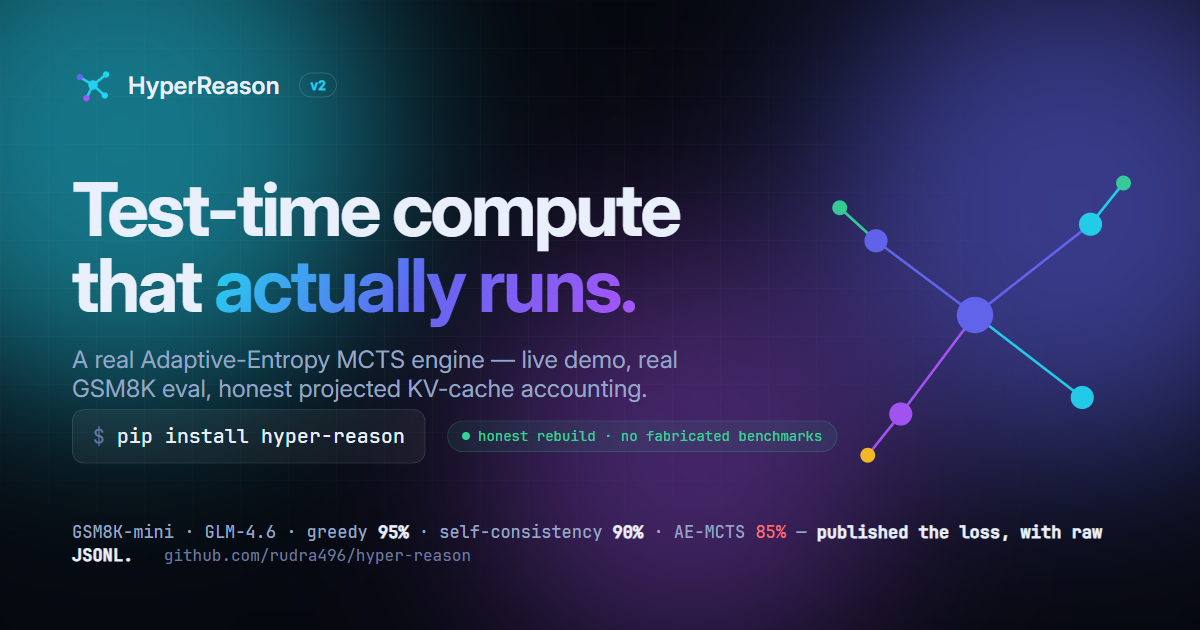
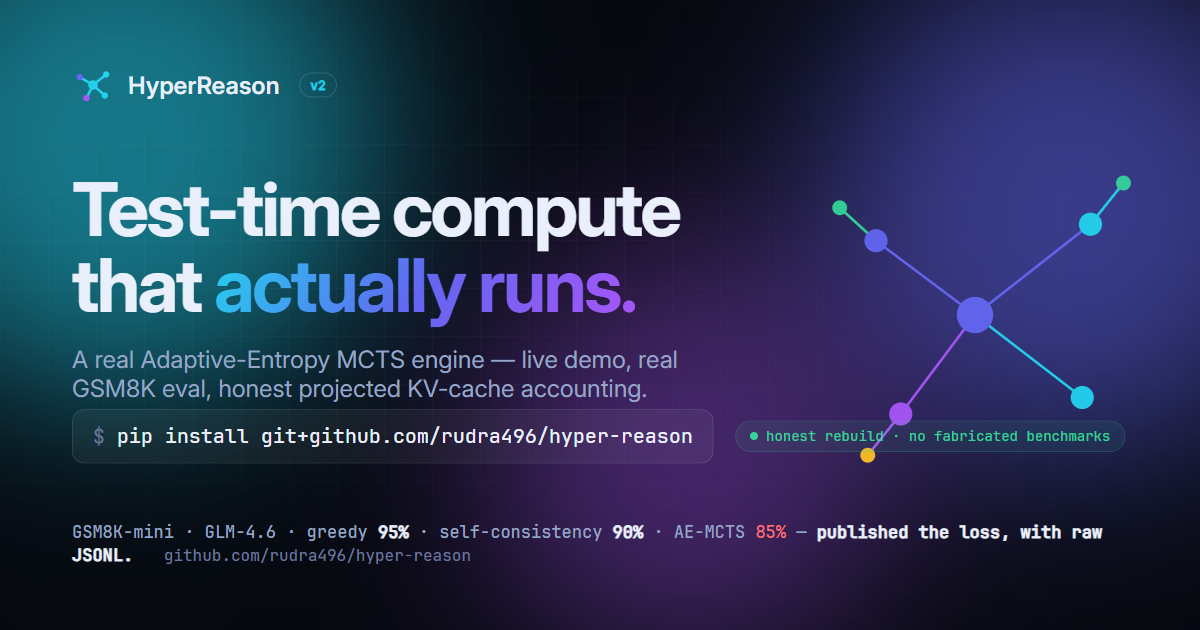
fix(install): correct install command (PyPI 'hyper-reason' is an unrelated project)
The PyPI name 'hyper-reason' belongs to a different (KG/IKL-logic) project.
Replace the misleading 'pip install hyper-reason' everywhere with the working
GitHub install: pip install git+https://github.com/rudra496/hyper-reason
(import name stays hyper_reason). Extras comments now name the direct deps.
Re-rendered og.png. 57/57 pass.

Changed region(s): [[0.2158, 0.6635, 0.925, 0.7238]]

diff --git a/docs/index.html b/docs/index.html
@@ -205,7 +205,7 @@ footer{border-top:1px solid var(--line);padding:40px 0;color:var(--mut-2);font-s
       with a genuinely interactive demo, a reproducible GSM8K eval, and KV-cache accounting that's labeled
       <i>projected</i> when it can't be measured.</p>
     <div class="cta-row">
-      <div class="install"><span class="pfx">$</span> pip install hyper-reason
+      <div class="install"><span class="pfx">$</span> pip install git+github.com/rudra496/hyper-reason
         <button id="copy" title="copy">copy</button></div>
       <a class="btn btn-primary" href="#demo">Run the engine ↓</a>
     </div>
@@ -524,7 +524,7 @@ function escapeHtml(s){return s.replace(/[&<>"]/g,c=>({"&":"&amp;","<":"&lt;",">
 
 /* ---- UI ---- */
 ["sims","k","depth"].forEach(i=>$(i).addEventListener("input",()=>{$("simsV").textContent=$("sims").value;$("kV").textContent=$("k").value;$("dV").textContent=$("depth").value;}));
-$("copy").onclick=()=>{navigator.clipboard.writeText("pip install hyper-reason");$("copy").textContent="copied";setTimeout(()=>$("copy").textContent="copy",1200);};
+$("copy").onclick=()=>{navigator.clipboard.writeText("pip install git+https://github.com/rudra496/hyper-reason");$("copy").textContent="copied";setTimeout(()=>$("copy").textContent="copy",1200);};
 
 async function run(){
   $("run").disabled=true;$("status").textContent="initializing…";

diff --git a/docs/og.html b/docs/og.html
@@ -59,7 +59,7 @@ h1{font-size:74px;line-height:1.02;letter-spacing:-.035em;font-weight:700;max-wi
     <h1>Test-time compute<br>that <span class="gt">actually runs.</span></h1>
     <div class="sub">A real Adaptive-Entropy MCTS engine — live demo, real GSM8K eval, honest projected KV-cache accounting.</div>
     <div class="row">
-      <div class="chip"><span class="p">$</span> pip install hyper-reason</div>
+      <div class="chip"><span class="p">$</span> pip install git+github.com/rudra496/hyper-reason</div>
       <div class="pill"><i></i> honest rebuild · no fabricated benchmarks</div>
     </div>
   </div>

diff --git a/hyper_reason/backends/transformers_backend.py b/hyper_reason/backends/transformers_backend.py
@@ -33,7 +33,7 @@ class TransformersBackend:
         if not _OK:
             raise ImportError(
                 "TransformersBackend requires PyTorch + transformers. "
-                "Install with: pip install hyper-reason[transformers]"
+                "Install with: pip install torch transformers"
             )
         self.model_name = model_name
         self.tokenizer = AutoTokenizer.from_pretrained(model_name)

diff --git a/hyper_reason/backends/__init__.py b/hyper_reason/backends/__init__.py
@@ -15,7 +15,7 @@ from .mock_backend import MockBackend
 from .glm_backend import GLMBackend
 from .ollama_backend import OllamaBackend
 
-try:  # optional extra: pip install hyper-reason[transformers]
+try:  # optional: pip install torch transformers
     from .transformers_backend import TransformersBackend
 except Exception:  # pragma: no cover
     TransformersBackend = None  # type: ignore[assignment]

diff --git a/tests/test_orchestrator.py b/tests/test_orchestrator.py
@@ -4,7 +4,7 @@ behavior of the graph, not a mocked/stubbed outcome.
 """
 
 import pytest
-pytest.importorskip("langgraph")  # optional extra: pip install hyper-reason[orchestrator]
+pytest.importorskip("langgraph")  # optional: pip install langgraph pydantic
 
 from hyper_reason.backends.mock_backend import MockBackend
 from hyper_reason.engine.config import SearchConfig

diff --git a/tests/test_js_parity.py b/tests/test_js_parity.py
@@ -2,7 +2,7 @@
 
 Runs the shipped docs/engine.js under Node and asserts its pure functions match the Python
 implementations on shared inputs. If this passes, the in-browser demo computes the same
-arithmetic as `pip install hyper-reason`. Skips if Node is unavailable.
+arithmetic as the installed package. Skips if Node is unavailable.
 """
 
 import json

diff --git a/README.md b/README.md
@@ -31,10 +31,12 @@ projects KV-cache savings from real token counts — with an eval you can re-run
 ## 1-line quickstart
 
 ```bash
-pip install -e .            # or: pip install hyper-reason
+pip install git+https://github.com/rudra496/hyper-reason
 export ANTHROPIC_BASE_URL=https://api.z.ai/api/anthropic   # any Anthropic-compatible gateway
 export ANTHROPIC_API_KEY=...
 ```
+> **Note:** the PyPI name `hyper-reason` is an unrelated project. Install from GitHub as above
+> (or `pip install hyperreason` once published under that name). Import is `hyper_reason`.
 ```python
 from hyper_reason import wrap_model, GLMBackend
 
